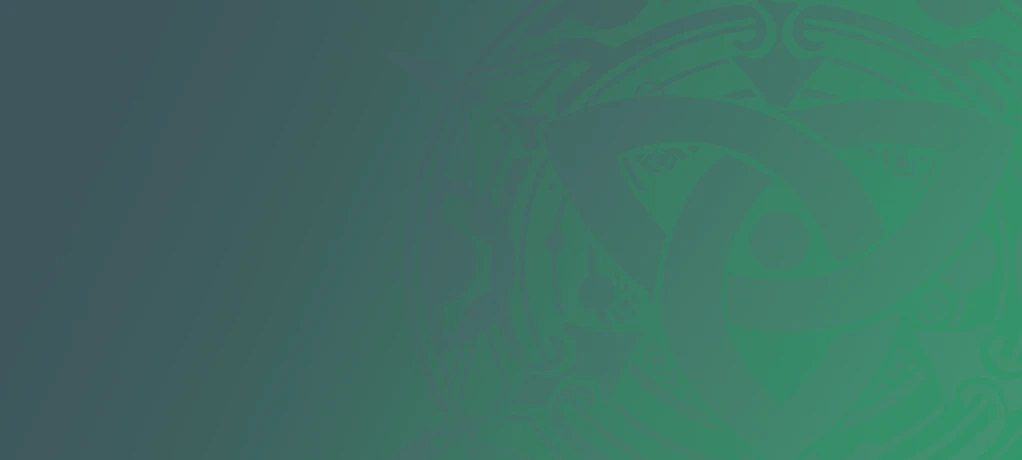
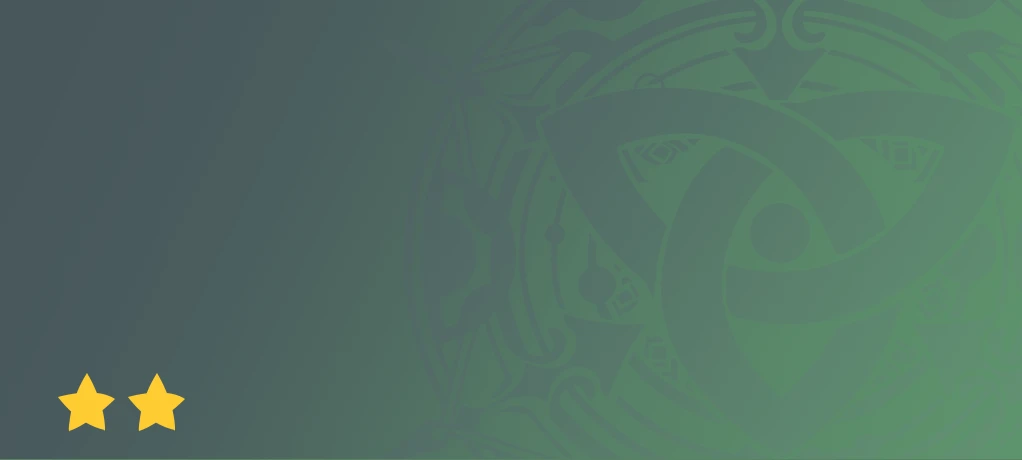
пцш ми

Changed region(s): [[0.4247, 0.0, 1.0, 1.0], [0.0607, 0.8217, 0.182, 0.9435]]

diff --git a/map.html b/map.html
@@ -1,4 +1,4 @@
-<!doctype html><html class="v-map" data-page="map"><head><meta charset=utf8><meta name=viewport content="width=device-width,initial-scale=1,viewport-fit=cover"><link rel="stylesheet" href="style.css?v=48">
+<!doctype html><html class="v-map" data-page="map"><head><meta charset=utf8><meta name=viewport content="width=device-width,initial-scale=1,viewport-fit=cover"><link rel="stylesheet" href="style.css?v=49">
 </head><body>
 <title>Глобус Тейвата · Геншин прокачка</title>
[1 lines of base64/hex data omitted]

diff --git a/index.html b/index.html
@@ -1,4 +1,4 @@
-<!doctype html><html><head><meta charset=utf8><meta name=viewport content="width=device-width,initial-scale=1,viewport-fit=cover"><link rel="stylesheet" href="style.css?v=48">
+<!doctype html><html><head><meta charset=utf8><meta name=viewport content="width=device-width,initial-scale=1,viewport-fit=cover"><link rel="stylesheet" href="style.css?v=49">
 </head><body>
 <title>Геншин прокачка</title>
[1 lines of base64/hex data omitted]

diff --git a/style.css b/style.css
@@ -2181,9 +2181,6 @@ html.v-weap #charsv, html.v-weap header.top .tools{display:none}
 /* 4★: фиолетовый фон плитки оружия */
 .card.wset.wk4 .art{background-image:url(wp_bg4.webp?v=1)}
 /* 1-3★ оружие: банер карточки, фон плитки, цвет рамки, звёзды */
-.wcard[data-r="1"] .ac-ban{background-image:url(wb1.webp?v=1); border-bottom-color:#6f8290}
-.wcard[data-r="2"] .ac-ban{background-image:url(wb2.webp?v=1); border-bottom-color:#3f9a72}
-.wcard[data-r="3"] .ac-ban{background-image:url(wb3.webp?v=1); border-bottom-color:#2f9bb3}
 .card.wk1{--c:#AEB8C4} .card.wk2{--c:#8FD3A8}
 .card.wset.wk1 .art{background-image:url(wp_bg1.webp?v=1)}
 .card.wset.wk2 .art{background-image:url(wp_bg2.webp?v=1)}
@@ -2196,3 +2193,13 @@ html.v-weap #charsv, html.v-weap header.top .tools{display:none}
 
 
 .stars.si3{aspect-ratio:108/32;background-image:url(st3.webp?v=1)} .stars.si2{aspect-ratio:72/32;background-image:url(st2.webp?v=1)} .stars.si1{aspect-ratio:36/32;background-image:url(st1.webp?v=1)}
+/* карточка оружия: шапка, банер (со звёздами) и низ банера по редкости, из картинок Бро */
+.wcard .ac-h{background:var(--wh,#BF6A33); border-color:var(--wf,#964F23); outline-color:var(--wh,#BF6A33)}
+.wcard .ac-h::before,.wcard .ac-h::after{background:var(--wh,#BF6A33); border-color:var(--wf,#964F23)}
+.wcard .ac-st{display:none}
+.wcard[data-r="1"]{--wh:#72778B; --wf:#595C6C} .wcard[data-r="1"] .ac-ban{background-image:url(wb1.webp?v=2); border-bottom-color:#5A5D66}
+.wcard[data-r="2"]{--wh:#2A9072; --wf:#236F59} .wcard[data-r="2"] .ac-ban{background-image:url(wb2.webp?v=2); border-bottom-color:#598263}
+.wcard[data-r="3"]{--wh:#5180CC; --wf:#40639C} .wcard[data-r="3"] .ac-ban{background-image:url(wb3.webp?v=2); border-bottom-color:#466D81}
+.wcard[data-r="4"]{--wh:#A256E1; --wf:#7E45AD} .wcard[data-r="4"] .ac-ban{background-image:url(wb4.webp?v=2); border-bottom-color:#866796}
+.wcard[data-r="5"]{--wh:#BF6A33; --wf:#964F23} .wcard[data-r="5"] .ac-ban{background-image:url(wb5.webp?v=2); border-bottom-color:#9D7544}
+.wcard .ac-b h4{color:var(--wf,#964F23)} .wcard .ac-b h4::before{background:var(--wh,#BF6A33)} .wcard .ac-b h4::after{background:linear-gradient(90deg,var(--wf,#964F23),transparent); opacity:.4}
